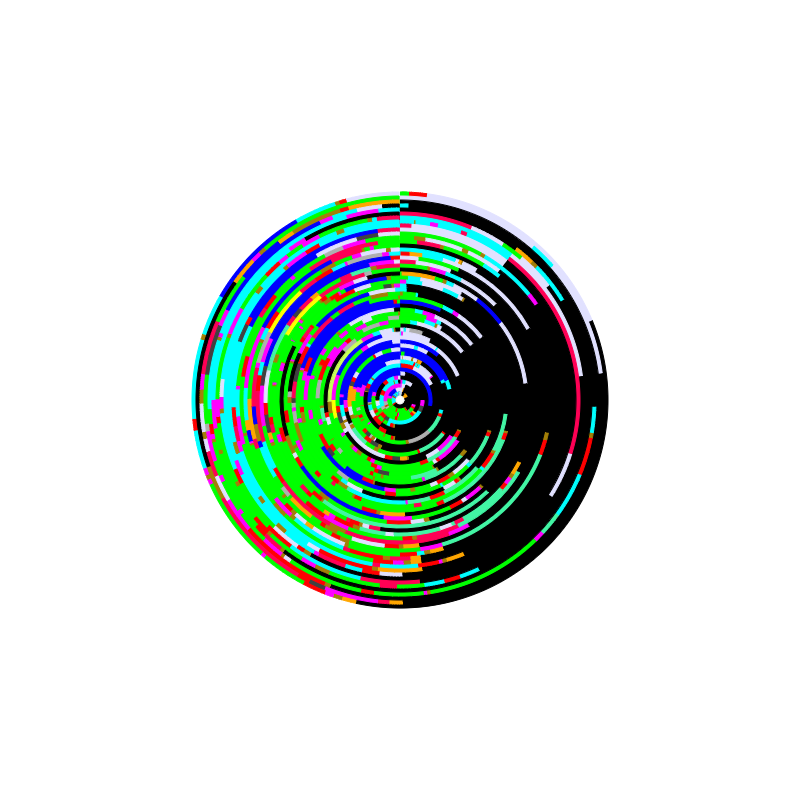
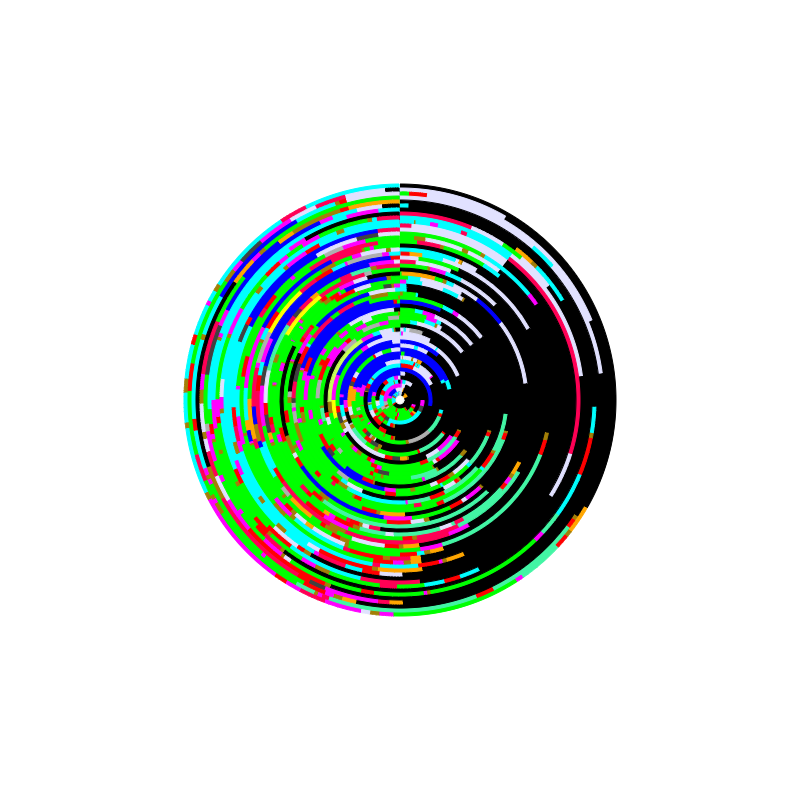
added 4/7 and 4/8

diff --git a/index.html b/index.html
@@ -15,13 +15,13 @@
 		</div>
 	-->
 		<div class="inputDiv">
-			<label for="cRad">Pie Radius</label><input name="cRad" id="cRad" type="number" min="0.1" max="50" step="1" value="212">
+			<label for="cRad">Pie Radius</label><input name="cRad" id="cRad" type="number" min="0.1" max="50" step="1" value="220">
 		</div>
 		<div class="inputDiv">
-			<label for="sRad">Spiral Start Radius</label><input name="sRad" id="sRad" type="number" min="0.1" max="50" step="1" value="312">
+			<label for="sRad">Spiral Start Radius</label><input name="sRad" id="sRad" type="number" min="0.1" max="50" step="1" value="324">
 		</div>
 		<div class="inputDiv">
-			<label for="eRad">Spiral End Radius</label><input name="eRad" id="eRad" type="number" min="0.1" max="50" step="1" value="318">
+			<label for="eRad">Spiral End Radius</label><input name="eRad" id="eRad" type="number" min="0.1" max="50" step="1" value="330">
 		</div>
 		<div id="buttonDiv">
 			<label>Open .png <input type="file" id="impBtn" name="impBtn" accept=".png" onchange="importCanvas();"></label>
@@ -58,7 +58,27 @@
 			var ctx2 = canvas2.getContext("2d");
 
 			var myDay = [
-				['','TV'],
+				['01:12','side work'],
+				['01:18','bathroom'],
+				['01:25','chores'],
+				['02:00','TV'],
+				['08:00','sleep'],
+				['08:30','reading'],
+				['08:45','admin'],
+				['09:06','eating'],
+				['09:21','apiary'],
+				['12:02','main work'],
+				['12:12','chores'],
+				['12:43','eating'],
+				['14:48','main work'],
+				['14:53','bathroom'],
+				['15:04','chores'],
+				['16:35','main work'],
+				['16:45','bathroom'],
+				['16:59','admin'],
+				['19:00','sleep'],
+				['19:45','eating'],
+				['20:06','side work'],
 			];
 
 			var categories = {
